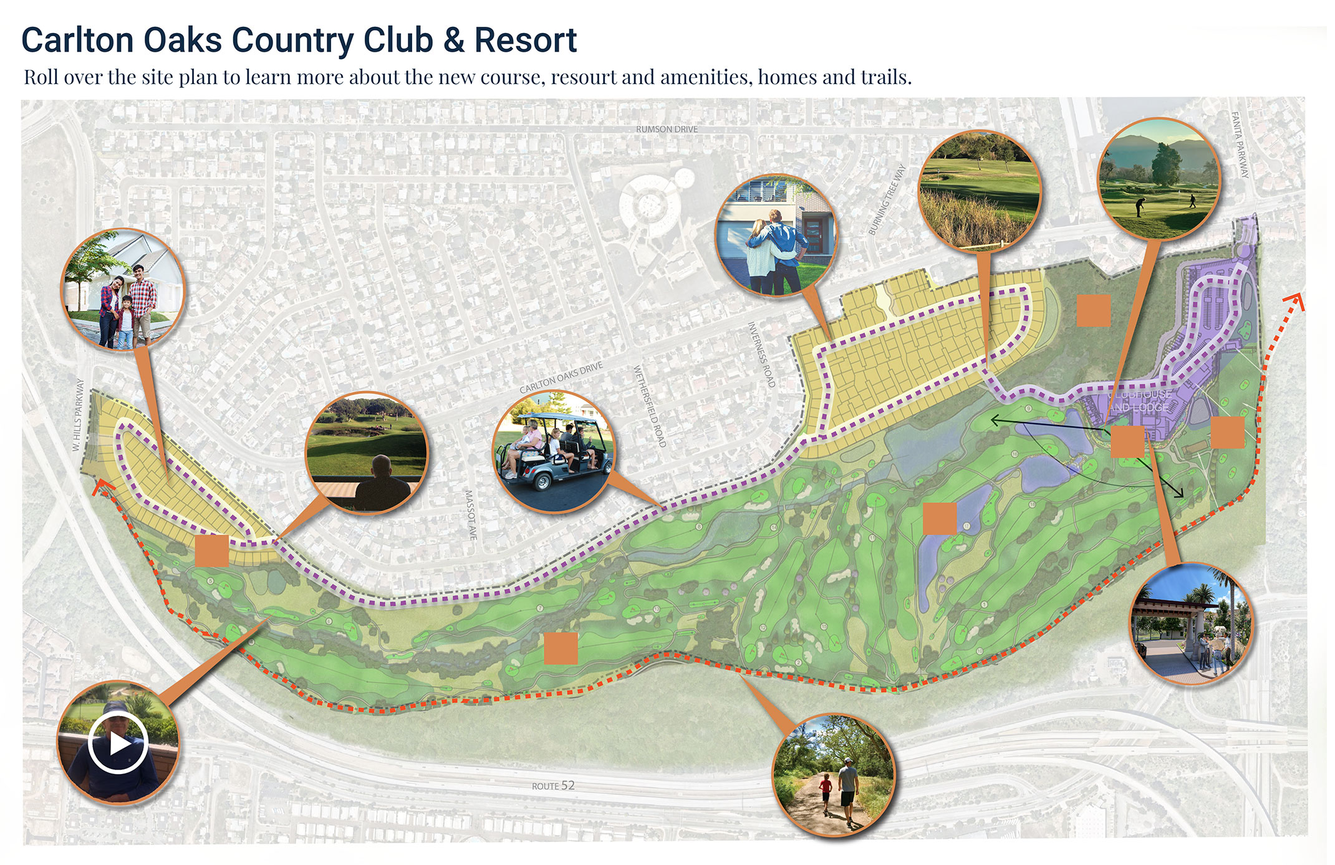
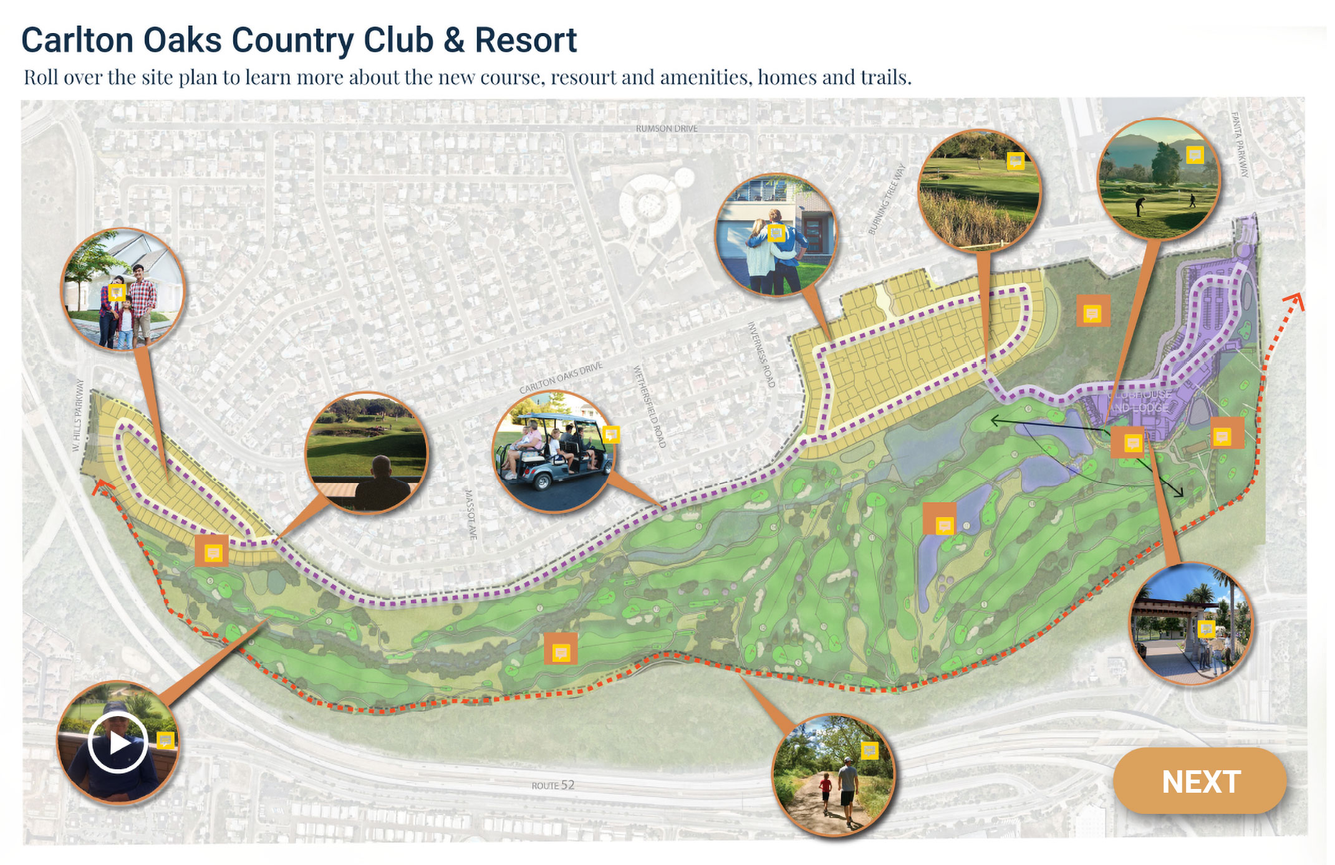
station5

diff --git a/components/Station5.js b/components/Station5.js
@@ -1,23 +1,18 @@
 import React, { Component } from "react";
 import gsap from "gsap";
 const popupText = [
-  "We kicked off public outreach in January 2020 with the launch of our informational website and FAQs page, door to door outreach to adjacent neighbors, one-on-one and small group meetings with interested community members, and meetings with local community groups.",
-  "The second application submittal included changes to the plan based on city comments and community feedback. The application is currently under review by city staff.",
-  "A letter was mailed to 950 homeowners who live in the neighborhoods closest to the course. It can be downloaded by visiting www.carltonoaksinfo.com/outreach",
-  "Thanks for coming!",
-  "We will refine plans to incorporate comments we receive on our second submittal as well as feedback submitted during the open house",
-  "This is an iterative process. We will continue to refine and resubmit until the cities deem our application complete.",
-  "Public education and education are a very important part of the process. Our team is available for one-on-one and small group meetings. We will also hold more public workshops. We hope you’ll stay involved!",
-  "We’ll keep you up to date on project milestones through our website and other outreach mediums.",
-  "The Scoping Meeting is your opportunity to provide input on specific issues you’d like to see analyzed in the Environmental Impact Report (EIR).",
-  "The EIR evaluates many different categories, including aesthetics, air quality, biological resources, cultural resources, geology and soils, greenhouse gases, hydrology and water quality, noise, traffic and more.",
-  "The Draft EIR will be circulated for public review. The public may submit comments or questions on the document.",
-  "Once the comment period closes, responses will be prepared. The responses to all comments will be included in the final EIR.",
-  "what is the approval process in SD? hearing manager? PC?",
-  "A public hearing will be hosted with the Santee City Council.",
+  "85 homes are proposed for Residential West (Planning Area 1). Homes are detached and  consistent with surrounding...",
+  "",
+  "",
+  "The new homes are divided into two gated neighborhoods on the western and northern portions of the property. The neighborhoods are designed to be an accessory to the golf course and will be linked to the Country Club and Resort through connective cart paths, providing seamless access between homes and recreation.",
+  "158 multi-family detached homes, designed to be compatible with the adjacent residential uses.",
+  "The redesigned golf course utilizes native vegetation to reduce the amount of grass in need of irrigation from 132 acres to 66 acres while still maintaining a championship golf course.",
+  "Sweeping views of the course will be enjoyed from the new Club & Resort courtyard.",
+  "The Carlton Oaks Country Club and Resort provides public access to the new San Diego River trail through a new .04-acre public trailhead which will connect to the existing trails through Mast Park. SANDAG is proposing to construct a Class 1 bikeway along this alignment for the exclusive use of pedestrians and cyclists.",
+  "The revitalized Carlton Oaks Country Club & Resort will serve as a modern welcoming place for longtime locals and visitors.  The resort facilities include a 52-room boutique hotel with swimming pool, event lawns, wellness center, and dining. The new facilities are anticipated to attract more users than the existing banquet room and hotel, bolstering the local economy through event revenue, tourism, and property taxes.",
 ];
 let stage = 0;
-const modalContent0 = (step, poptextfunc, poptext) => {
+const modalContent0 = (step, poptextfunc, poptext, func) => {
   let i = 0;
 
   const popup = (val, x, y) => {
@@ -51,14 +46,14 @@ const modalContent0 = (step, poptextfunc, poptext) => {
         <div className="overlay-button-container">
           <div
             className="overlay-button"
-            /*  onClick={func} */
+            onClick={func}
             style={{
-              top: 0,
+              bottom: 0,
               right: 0,
             }}
           />
         </div>
-        <div className="landUsePlanning-container">
+        <div className="sitePlan-container">
           <div className="text-popup">
             <div
               className="closebtn"
@@ -68,86 +63,54 @@ const modalContent0 = (step, poptextfunc, poptext) => {
               <img src="/images/close.png" />
             </div>
             <div>{poptext}</div>
+            {/*   <div>{popimg}</div> */}
           </div>
 
-          <div className="landUseBlock" />
-          <div className="landUsePlanning">
-            <div className="landUseBlock" />
-            <div className="landUseBlock" />
+          <div className="sitePlan">
             <div
-              className="landUseBlock"
-              style={{ cursor: "pointer" }}
-              onClick={() => popup(0, 330, -30)}
-            />
-            <div className="landUseBlock" />
-            <div
-              className="landUseBlock"
-              style={{ cursor: "pointer" }}
-              onClick={() => popup(1, 800, -30)}
-            />
-
-            <div
-              className="landUseBlock"
-              style={{ cursor: "pointer" }}
-              onClick={() => popup(2, 100, 140)}
+              className="siteplanBlock"
+              style={{ cursor: "pointer", top: "10%" }}
+              onClick={() => popup(0, 130, 30)}
             />
             <div
-              className="landUseBlock"
-              style={{ cursor: "pointer" }}
-              onClick={() => popup(3, 200, 140)}
+              className="siteplanBlock"
+              style={{ cursor: "pointer", top: "77%" }}
+              onClick={() => popup(1, 130, 450)}
             />
             <div
-              className="landUseBlock"
-              style={{ cursor: "pointer" }}
-              onClick={() => popup(4, 400, 140)}
+              className="siteplanBlock"
+              style={{ cursor: "pointer", top: "34%", left: "18%" }}
+              onClick={() => popup(2, 400, 300)}
             />
             <div
-              className="landUseBlock"
-              style={{ cursor: "pointer" }}
-              onClick={() => popup(5, 650, 140)}
+              className="siteplanBlock"
+              style={{ cursor: "pointer", top: "34%", left: "35%" }}
+              onClick={() => popup(3, 560, 270)}
             />
             <div
-              className="landUseBlock"
-              style={{ cursor: "pointer" }}
-              onClick={() => popup(6, 750, 140)}
-            />
-            <div className="landUseBlock" />
-            <div
-              className="landUseBlock"
-              style={{ cursor: "pointer" }}
-              onClick={() => popup(7, 200, 280)}
+              className="siteplanBlock"
+              style={{ cursor: "pointer", top: "6%", left: "53%" }}
+              onClick={() => popup(4, 700, 200)}
             />
             <div
-              className="landUseBlock"
-              style={{ cursor: "pointer" }}
-              onClick={() => popup(8, 400, 280)}
+              className="siteplanBlock"
+              style={{ cursor: "pointer", top: "82%", left: "58%" }}
+              onClick={() => popup(5, 700, 400)}
             />
             <div
-              className="landUseBlock"
-              style={{ cursor: "pointer" }}
-              onClick={() => popup(9, 650, 280)}
+              className="siteplanBlock"
+              style={{ cursor: "pointer", top: "-2%", left: "70%" }}
+              onClick={() => popup(6, 550, 150)}
             />
             <div
-              className="landUseBlock"
-              style={{ cursor: "pointer" }}
-              onClick={() => popup(10, 750, 280)}
-            />
-            <div className="landUseBlock" />
-            <div
-              className="landUseBlock"
-              style={{ cursor: "pointer" }}
-              onClick={() => popup(11, 200, 420)}
-            />
-            <div className="landUseBlock" />
-            <div
-              className="landUseBlock"
-              style={{ cursor: "pointer" }}
-              onClick={() => popup(12, 650, 420)}
+              className="siteplanBlock"
+              style={{ cursor: "pointer", top: "-2%", left: "85%" }}
+              onClick={() => popup(7, 750, 150)}
             />
             <div
-              className="landUseBlock"
-              style={{ cursor: "pointer" }}
-              onClick={() => popup(13, 750, 420)}
+              className="siteplanBlock"
+              style={{ cursor: "pointer", top: "60%", left: "88%" }}
+              onClick={() => popup(8, 750, 200)}
             />
           </div>
         </div>
@@ -159,7 +122,7 @@ const modalContent0 = (step, poptextfunc, poptext) => {
     </div>
   );
 };
-const modalContent1 = (step, func) => {
+const modalContent1 = (step, poptextfunc, poptext, func) => {
   console.log(step);
   return (
     <div>
@@ -168,8 +131,8 @@ const modalContent1 = (step, func) => {
           className="overlay-button"
           onClick={func}
           style={{
-            top: 0,
-            right: 0,
+            bottom: 100,
+            right: 130,
           }}
         />
       </div>
@@ -277,25 +240,16 @@ class Station5 extends Component {
     return (
       <div>
         <div className="overlay-container4 zindex2 modal">
-          <div className={"overlay-full whitePanel"}>
+          <div className={"overlay-full white whitePanel"}>
             <div className="center-content content" ref="modalcontent">
               {eval(`modalContent${this.state.step}`)(
                 this.state.step,
                 this.poptextfunc,
-                this.state.poptext
+                this.state.poptext,
+                this.state.step === 0 ? this.seq1 : this.fadeIntro
               )}
             </div>
           </div>
-          {this.state.step > 0 && this.state.step < 2 ? null : (
-            <div className="overlay-footer">
-              <div className="overlay-logo">
-                <img src="images/logo.png" />
-              </div>
-              <div className="station-title">
-                Station 4 – Community Outreach
-              </div>
-            </div>
-          )}
         </div>
       </div>
     );

diff --git a/styles/globals.css b/styles/globals.css
@@ -110,10 +110,15 @@ video {
   position: absolute;
   width: 100%;
   height: 100%;
-  background: rgba(0, 0, 0, 1);
+
   /* cursor: pointer; */
 }
-
+.black {
+  background: rgba(0, 0, 0, 1);
+}
+.white {
+  background: rgb(255, 255, 255);
+}
 .overlay-content,
 .overlay-content-courses {
   position: absolute;
@@ -356,6 +361,26 @@ video {
   width: 100%;
   height: 100%;
 }
+.sitePlan-container {
+  width: 90%;
+  height: 80%;
+  position: absolute;
+  z-index: 3;
+  left: 50%;
+  top: 55%;
+  transform: translate(-50%, -50%);
+}
+.sitePlan {
+  width: 100%;
+  height: 100%;
+  position: relative;
+}
+.siteplanBlock {
+  position: absolute;
+
+  width: 18vh;
+  height: 18vh;
+}
 .landUsePlanning-container {
   width: 87%;
   height: 65%;
@@ -371,7 +396,7 @@ video {
   position: absolute;
   width: 100%;
   height: 100%;
-  z-index: 3;
+
   right: 0;
   top: 0;
 }
@@ -380,6 +405,7 @@ video {
   cursor: pointer;
   width: 240px;
   height: 100px;
+  z-index: 5;
 }
 .text-popup {
   background-color: rgba(255, 255, 255, 0.959);
@@ -392,6 +418,7 @@ video {
   line-height: 1.5;
   display: none;
   box-shadow: 3px 3px 6px 2px rgba(0, 0, 0, 0.23);
+  z-index: 10;
 }
 .closebtn {
   position: absolute;

diff --git a/pages/index.js b/pages/index.js
@@ -390,7 +390,7 @@ class Home extends Component {
                       >
                         <div className="pulse" />
                       </div>
-                      {/*     <div
+                      <div
                         className="imacButton"
                         style={{
                           width: "20px",
@@ -404,7 +404,7 @@ class Home extends Component {
                         onClick={this.launchStation5}
                       >
                         <div className="pulse" />
-                      </div> */}
+                      </div>
                     </div>
                     {/*           <div
                       style={{

diff --git a/components/Station4.js b/components/Station4.js
@@ -474,7 +474,7 @@ class Station4 extends Component {
             className={
               this.state.step === 0
                 ? "overlay-content whitePanel"
-                : "overlay-full whitePanel"
+                : "overlay-full black whitePanel"
             }
           >
             <div className="center-content content" ref="modalcontent">
